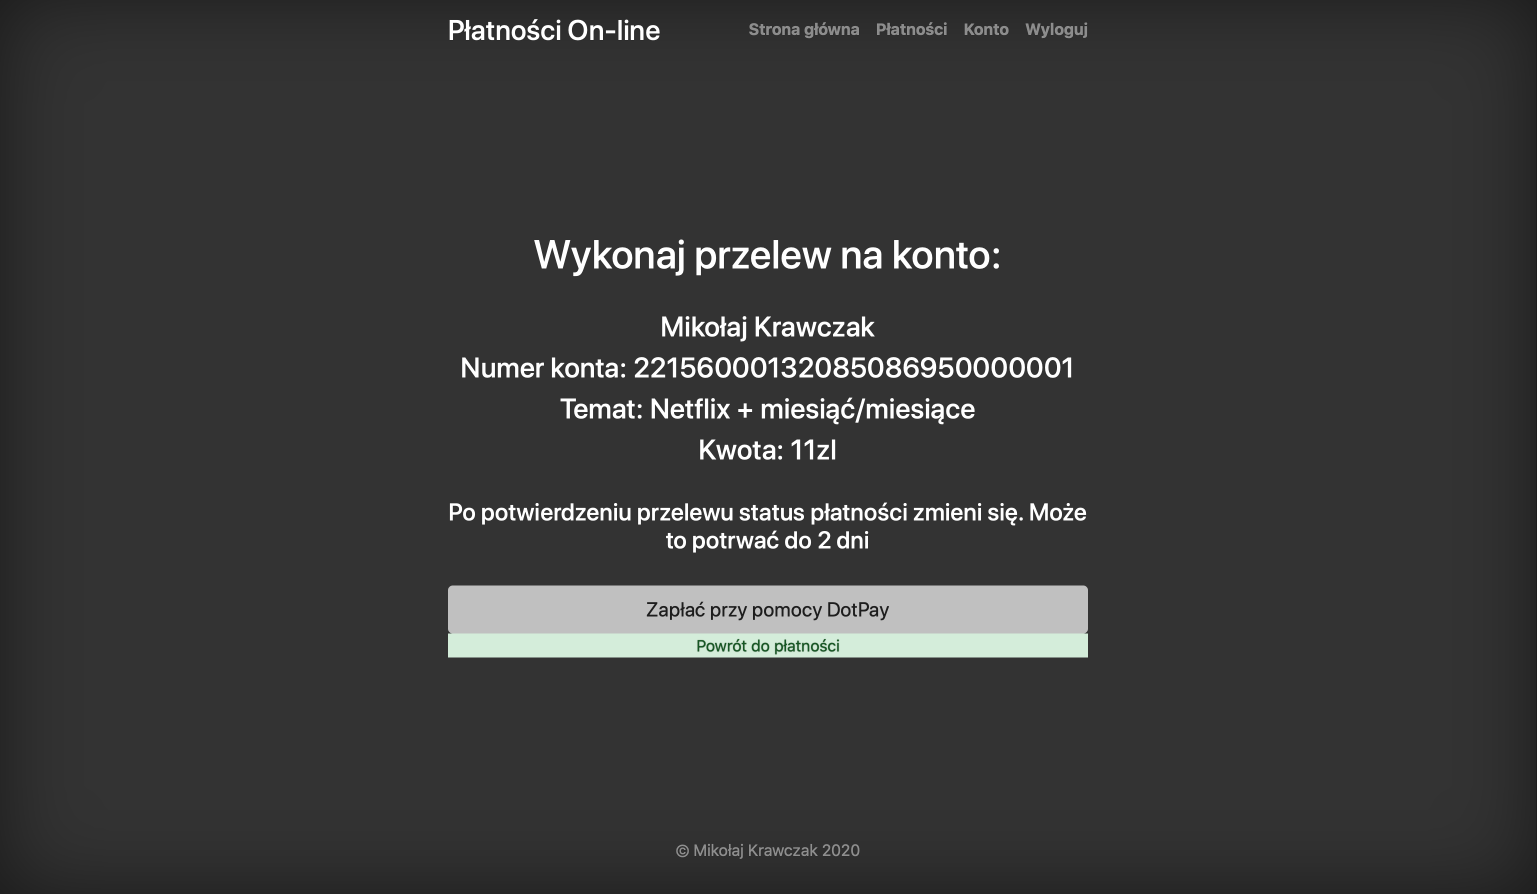
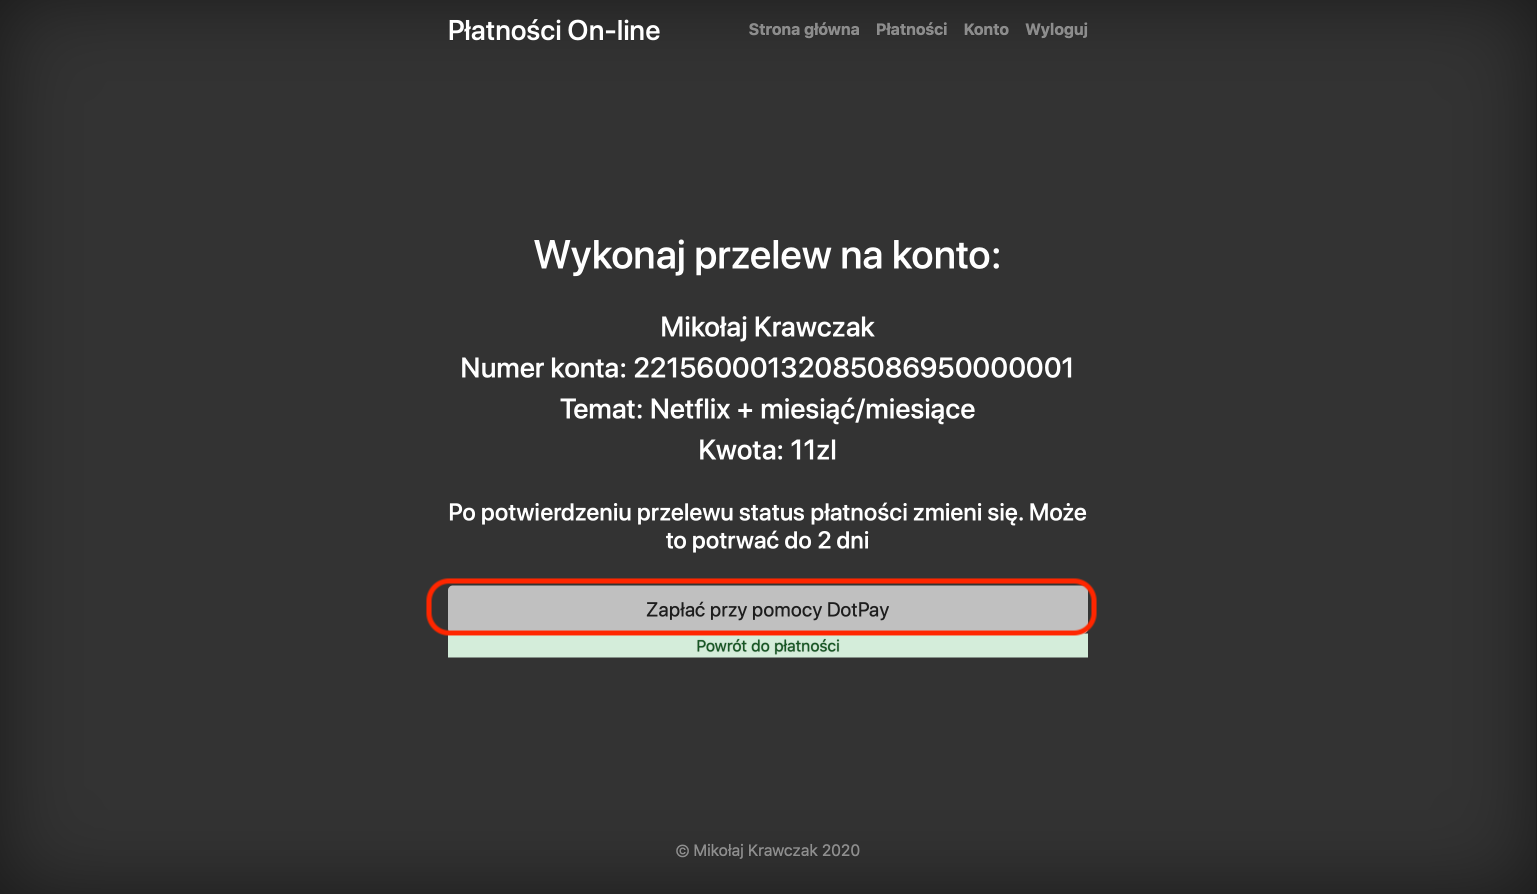
changes in readme

Changed region(s): [[0.2811, 0.6342, 0.7183, 0.7248], [0.2498, 0.6644, 0.2811, 0.6946]]

diff --git a/README.md b/README.md
@@ -25,7 +25,7 @@
 
 ### Pay by DotPay
 ![User View](./src/main/resources/static/img/DotPay.png) 
-![User View](./src/main/resources/static/img/payments.png)
+![User View](./src/main/resources/static/img/paymentsA.png)
 >This is a test payment in the DotPay system. After the acceptation, the application will show information about the next month paid. 
 
 ## Technologies
